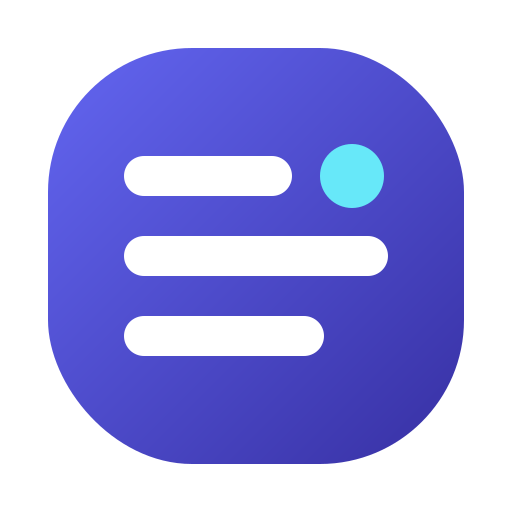
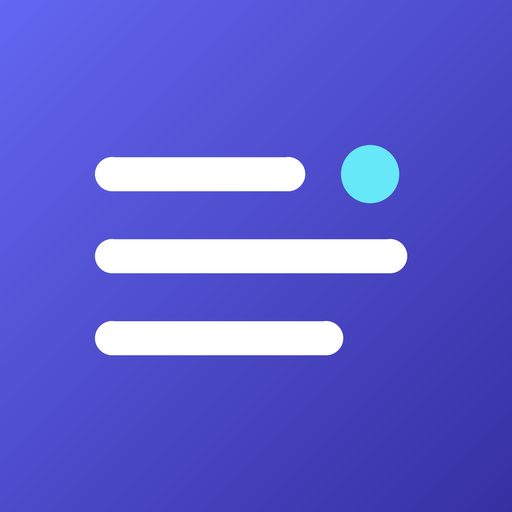
Mejorar iconos de instalación PWA

diff --git a/sw.js b/sw.js
@@ -1,4 +1,4 @@
-const CACHE_NAME = 'devhub-cache-v25';
+const CACHE_NAME = 'devhub-cache-v26';
 const APP_SHELL = [
     './',
     './index.html',

diff --git a/tools/generate_pwa_icons.py b/tools/generate_pwa_icons.py
@@ -1,0 +1,77 @@
+"""Generate DevHub PWA icons from the canonical brand geometry."""
+
+from pathlib import Path
+
+from PIL import Image, ImageDraw
+
+
+ROOT = Path(__file__).resolve().parents[1]
+ASSETS = ROOT / "assets"
+TOP_LEFT = (99, 102, 241)
+BOTTOM_RIGHT = (55, 48, 163)
+WHITE = (255, 255, 255)
+CYAN = (103, 232, 249)
+SUPERSAMPLING = 4
+
+
+def interpolate(start: int, end: int, progress: float) -> int:
+    return round(start + (end - start) * progress)
+
+
+def create_icon(size: int) -> Image.Image:
+    canvas_size = size * SUPERSAMPLING
+    image = Image.new("RGB", (canvas_size, canvas_size))
+    pixels = image.load()
+
+    for y in range(canvas_size):
+        for x in range(canvas_size):
+            progress = (x + y) / (2 * (canvas_size - 1))
+            pixels[x, y] = tuple(
+                interpolate(start, end, progress)
+                for start, end in zip(TOP_LEFT, BOTTOM_RIGHT)
+            )
+
+    draw = ImageDraw.Draw(image)
+    scale = canvas_size / 512
+
+    def rounded_line(x1: int, y: int, x2: int, width: int) -> None:
+        draw.line(
+            tuple(round(value * scale) for value in (x1, y, x2, y)),
+            fill=WHITE,
+            width=round(width * scale),
+        )
+        radius = width * scale / 2
+        for x in (x1 * scale, x2 * scale):
+            draw.ellipse(
+                (x - radius, y * scale - radius, x + radius, y * scale + radius),
+                fill=WHITE,
+            )
+
+    rounded_line(112, 174, 288, 34)
+    rounded_line(112, 256, 390, 34)
+    rounded_line(112, 338, 326, 34)
+
+    dot_x, dot_y, dot_radius = (370 * scale, 174 * scale, 29 * scale)
+    draw.ellipse(
+        (
+            dot_x - dot_radius,
+            dot_y - dot_radius,
+            dot_x + dot_radius,
+            dot_y + dot_radius,
+        ),
+        fill=CYAN,
+    )
+
+    return image.resize((size, size), Image.Resampling.LANCZOS)
+
+
+def main() -> None:
+    icon_192 = create_icon(192)
+    icon_512 = create_icon(512)
+    icon_192.save(ASSETS / "icon-192.png", optimize=True)
+    icon_512.save(ASSETS / "icon-512.png", optimize=True)
+    icon_512.save(ASSETS / "icon-maskable-512.png", optimize=True)
+
+
+if __name__ == "__main__":
+    main()
